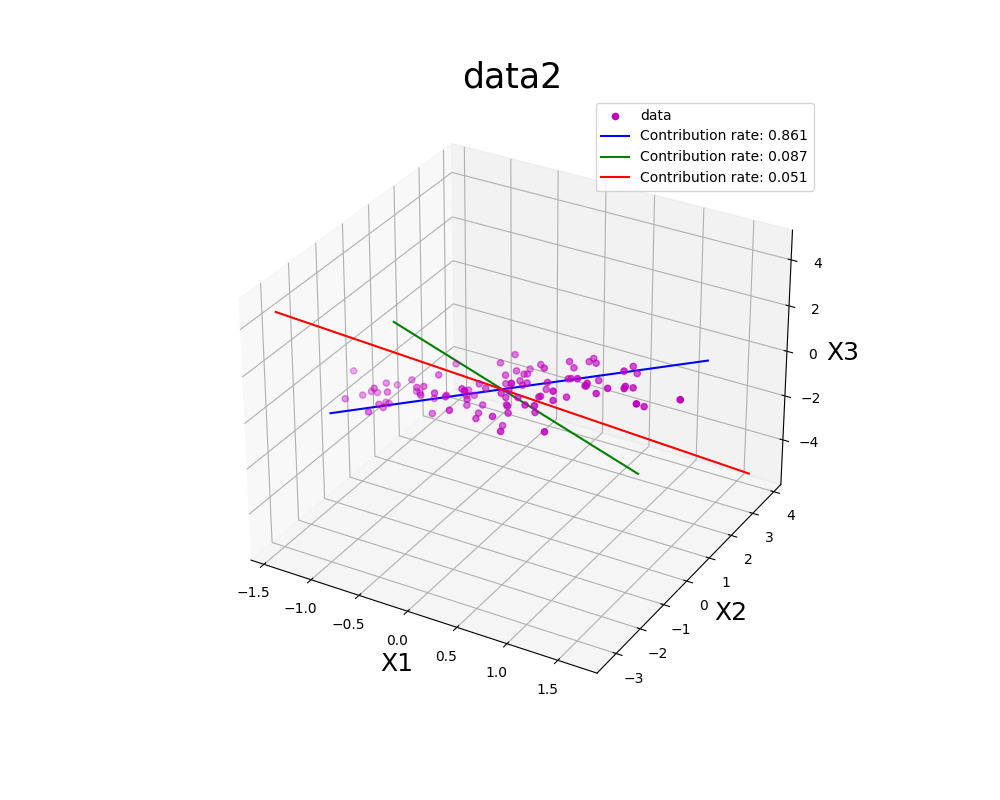
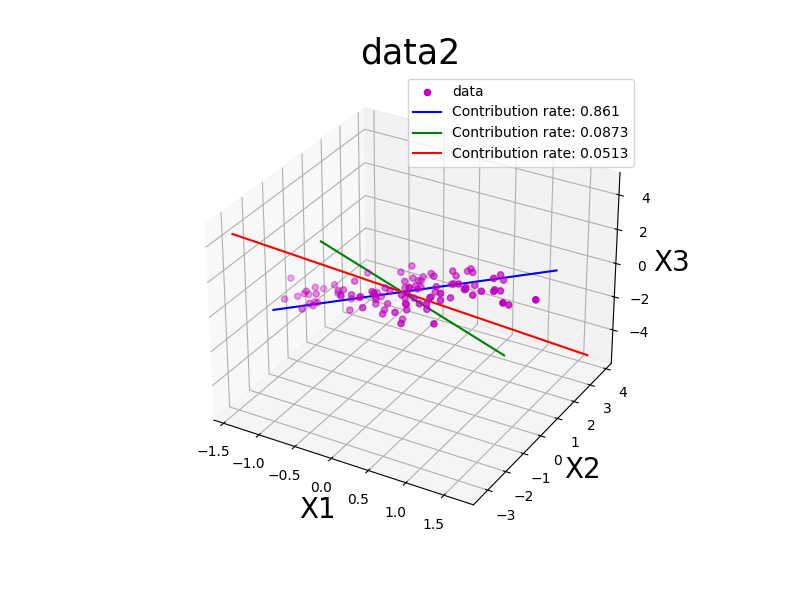
data1のプロットが直角になるように修正

diff --git a/ex6/r_kobayashi/main.py b/ex6/r_kobayashi/main.py
@@ -1,11 +1,12 @@
 import argparse
 import os
 
+import math
 import pandas as pd
 import numpy as np
 import matplotlib.pyplot as plt
 from mpl_toolkits.mplot3d import Axes3D
-
+import decimal
 
 def open_csv(fname):
     """
@@ -41,7 +42,9 @@ def standardize_data(data):
     s_data : numpy.ndarray
         standardized data
     """
+    # calculate mean of data
     m_data = np.mean(data, axis=0)
+    # calculate variance of data
     var_data = np.std(data, axis=0, ddof=1)
     s_data = (data-m_data) / var_data
 
@@ -64,11 +67,11 @@ def pca(data):
     contribution : np.ndarray
         contribution rate
     """
-    # 分散共分散行列を計算
+    # calculate covariance matrix
     cov = np.cov(data, rowvar=False)
-    # 固有値、固有ベクトルを計算
+    # calculate eigenvalues and eigenvectors
     lam, ev = np.linalg.eigh(cov)
-    # 固有値、固有ベクトルを降順にソート
+    # sort eigenvalues and aigenvectors in descending order
     sort_lam = np.sort(lam)[::-1]
     sort_ev = ev[:, np.argsort(lam)[::-1]]
     contribution = sort_lam / np.sum(sort_lam)
@@ -97,19 +100,21 @@ def plot_2d(data, ev, contribution, graph_title):
     z1 = (ev[1, 0] / ev[0, 0]) * x_label
     z2 = (ev[1, 1] / ev[0, 1]) * x_label
 
-    plt.figure(figsize=(10,8))
-    plt.scatter(x, y, c="m", label="data")
-    plt.plot(x_label, z1, c="b", label="Contribution rate: "+str(round(contribution[0], 3)))
-    plt.plot(x_label, z2, c="g", label="Contribution rate: "+str(round(contribution[1], 3)))
+    fig, ax = plt.subplots(figsize=(6,8), tight_layout=True,)
+    ax.scatter(x, y, c="m", label="data")
+    ax.plot(x_label, z1, c="b", label=f"Contribution rate: {round(contribution[0], 3)}")
+    ax.plot(x_label, z2, c="g", label=f"Contribution rate: {round(contribution[1], 3)}")
+    ax.set_aspect("equal")
     plt.title(graph_title, fontsize=25)
-    plt.xlabel("X1", fontsize=18)
-    plt.ylabel("X2", fontsize=18)
+    plt.xlabel("X1", fontsize=20)
+    plt.ylabel("X2", fontsize=20)
     plt.grid()
     plt.legend()
     path = os.path.dirname(__file__)
     save_fname = os.path.join(path, "result", graph_title+"_2d.png")
     plt.savefig(save_fname)
     plt.tight_layout()
+    
     plt.show()
     plt.close()
 
@@ -135,15 +140,15 @@ def plot_3d(data, ev, contribution, graph_title):
     x_label = np.linspace(min(data[:, 0]), max(data[:, 0]), 100)
     x_y = ev[1, :] / ev[0, :]
     x_z = ev[2, :] / ev[0, :]
-    fig = plt.figure(figsize=(10,8))
-    ax = fig.add_subplot(111, projection="3d")
+    fig = plt.figure(figsize=(8,6))
+    ax = fig.add_subplot(projection="3d")
     ax.scatter(x, y, z, c="m", label="data")
-    plt.plot(x_label, x_y[0]*x_label, x_z[0]*x_label, c="b", label="Contribution rate: "+str(round(contribution[0], 3)))
-    plt.plot(x_label, x_y[1]*x_label, x_z[1]*x_label, c="g", label="Contribution rate: "+str(round(contribution[1], 3)))
-    plt.plot(x_label, x_y[2]*x_label, x_z[2]*x_label, c="r", label="Contribution rate: "+str(round(contribution[2], 3)))
-    ax.set_xlabel("X1", fontsize=18)
-    ax.set_ylabel("X2", fontsize=18)
-    ax.set_zlabel("X3", fontsize=18)
+    ax.plot(x_label, x_y[0]*x_label, x_z[0]*x_label, c="b", label=f"Contribution rate: {round_num(contribution[0], 3)}")
+    ax.plot(x_label, x_y[1]*x_label, x_z[1]*x_label, c="g", label=f"Contribution rate: {round_num(contribution[1], 3)}")
+    ax.plot(x_label, x_y[2]*x_label, x_z[2]*x_label, c="r", label=f"Contribution rate: {round_num(contribution[2], 3)}")
+    ax.set_xlabel("X1", fontsize=20)
+    ax.set_ylabel("X2", fontsize=20)
+    ax.set_zlabel("X3", fontsize=20)
     plt.title(graph_title, fontsize=25)
     plt.legend()
     path = os.path.dirname(__file__)
@@ -152,12 +157,34 @@ def plot_3d(data, ev, contribution, graph_title):
     plt.tight_layout()
     plt.show()
     plt.close()
-
     press_data = data @ ev
     plt.scatter(press_data[:, 0], press_data[:, 1], c="m")
-    plt.title(graph_title, fontsize=25)
+    plt.title(f"{graph_title}_press", fontsize=25)
     path = os.path.dirname(__file__)
     save_fname = os.path.join(path, "result", graph_title+"_press.png")
+    plt.savefig(save_fname)
+    plt.tight_layout()
+    plt.show()
+    plt.close()
+
+
+def round_num(x, degit):
+    x_degits = math.floor(math.log10(abs(x)))
+    x_rounded = decimal.Decimal(str(x)).quantize(decimal.Decimal(str(10 ** (x_degits - degit + 1))), rounding = "ROUND_HALF_UP")
+    return x_rounded
+
+
+def plot_sum_con(data_dim, sum_con, press_dim, graph_title):
+    plt.figure(figsize=(10,8))
+    x = np.arange(1, data_dim+1, 1)
+    plt.plot(x, sum_con[0:data_dim], c="b")
+    plt.plot(press_dim, sum_con[press_dim], marker="o", c="r", markersize=12)
+    plt.text(press_dim, sum_con[press_dim]-0.08, f"({press_dim}, {round_num(sum_con[press_dim], 2)})", fontsize=25)
+    plt.title(graph_title+"_sum_con", fontsize=25)
+    plt.xlabel("dimention", fontsize=20)
+    plt.ylabel("sum contribution", fontsize=20)
+    path = os.path.dirname(__file__)
+    save_fname = os.path.join(path, "result", graph_title+"_sum_con.png")
     plt.savefig(save_fname)
     plt.tight_layout()
     plt.show()
@@ -176,12 +203,17 @@ def main(args):
         plot_3d(data, eigenvector, contribution, graph_title)
     else:
         goal = 0.9
-        sum_con = 0
-        dim = 0
-        while sum_con < goal:
-            sum_con += contribution[dim]
-            dim +=1
-        print("dim:", dim)
+        sum_con = np.zeros(data.shape[1])
+        sum_con[0] += contribution[0]
+        dim = 1
+        for dim in range(0, data.shape[1]):
+            sum_con[dim] = sum_con[dim-1] + contribution[dim]
+            if (sum_con[dim-1]<goal) and (sum_con[dim]>goal):
+                press_dim = dim + 1
+        plot_sum_con(data.shape[1], sum_con, press_dim, graph_title)
+        print("data_dim:", data.shape[1])
+        print("press_dim:", press_dim)
+        # ３次元以下に圧縮できたなら、プロット
         if dim == 2:
             plot_2d(data, eigenvector, sum_con)
         elif dim == 3:
